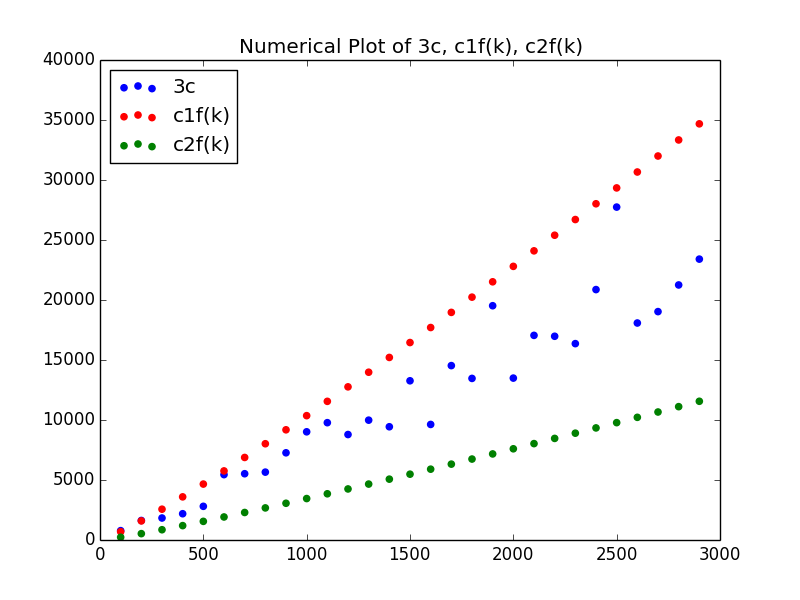
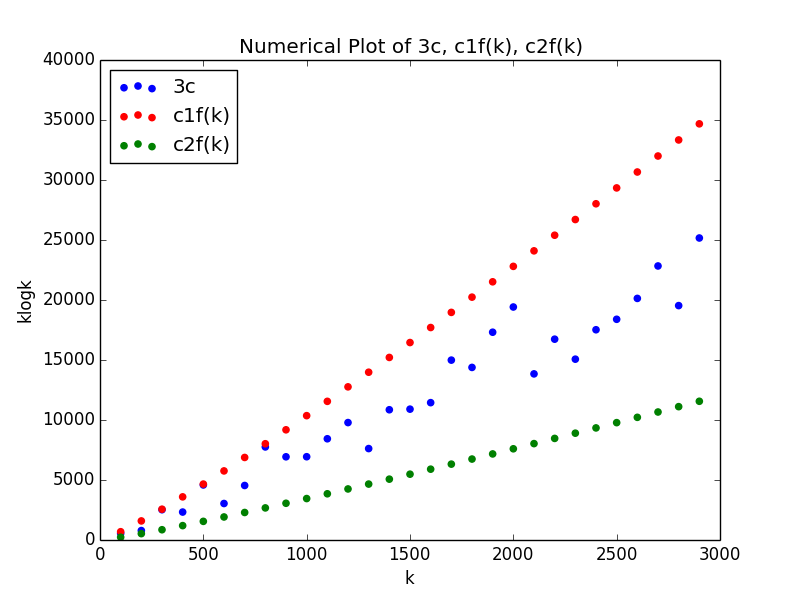
almost done with 5a

diff --git a/ps3/ps3_q5.py b/ps3/ps3_q5.py
@@ -1,8 +1,28 @@
+'''
+Robert Werthman
+csci 5454, problem set 3, question 5(a)
+
+Create a plot of running Karger's algorithm on
+different size random graphs.
+'''
+
 import networkx as nx 
 import matplotlib.pyplot as plt # Draw a graph from networkx
 import random
+import csv
 
 def CreateGraph(n):
+  '''
+  Description:
+    Creates a random networkx graph and then
+    converts it a multigraph
+
+  Args:
+    n number of nodes to be in graph
+
+  Returns:
+    a graph with n nodes and random edges
+  '''
   p = 1.0/n # Probability of creating an edge between two vertices
   G = nx.gnp_random_graph(n, p)
 
@@ -15,6 +35,16 @@ def CreateGraph(n):
   return G
 
 def ChooseRandomEdge(G):
+  '''
+  Description:
+    Chooses a random edge from a newtorkx graph
+
+  Args:
+    G a networkx graph
+
+  Returns:
+    a tuple of endpoints for a randomly selected edge in a graph
+  '''
   # Get the list of edges in the graph
   edges = nx.edges(G)
   
@@ -30,6 +60,21 @@ def RunKarger(G):
   return G
 
 def ContractEdge(G,e):
+  '''
+  Description:
+    Contracts an edge in a graph by removing it
+    and creating a new vertex from one of the 
+    endpoints of the edge.  Takes all edges from
+    both endpoints and connects them to new vertex.
+
+
+  Args:
+    G graph with edge to contract
+    e tuple of endpoints in edge to contract
+
+  Returns:
+    G a new graph with an edge contracted
+  '''
   # Get the endpoints of the contracted edge
   u = e[0]
   v = e[1]
@@ -52,33 +97,132 @@ def ContractEdge(G,e):
     
   return G
   
-  
-
 def DrawGraph(G, filename):
+  '''
+  Description:
+    Used to create a picture of a networkx graph
+    for testing
+
+  Args:
+    G a networkx graph
+    filename file to save picture of graph to
+
+  Returns:
+    Creates a picture of a newtorkx graph as output
+
+  '''
   pos = nx.shell_layout(G)
   nx.draw_networkx_nodes(G,pos)
   nx.draw_networkx_edges(G,pos)
   nx.draw_networkx_labels(G,pos)
   plt.savefig(filename)
   
+def Write(filename, n, prob):
+  '''
+  Description:
+    Writes output to a file
+  
+  Args:
+    n number of nodes in a graph
+    prob probability of find min cut with n-node graph
+
+  Returns:
+    Outputs n and prob to a file
+  '''
+  f = open(filename, 'a')
+  f.write('{0},{1}\n'.format(n,prob))
+  f.close()
+
+def ReadCSV(filename):
+  '''
+  Description:
+    Reads in csv file row by row and
+    calls ProducePlot to create a plot
+    of the first column vs second column
+
+  Args:
+    filename path to file to read in
+    
+  Returns:
+    Calls ProducePlot 
+
+  '''
+  graph_size = []
+  probs = []
+  with open(filename, 'rb') as csvfile:
+    reader = csv.reader(csvfile)
+    for row in reader:
+      graph_size.append(int(row[0]))
+      probs.append(float(row[1]))
+
+  ProducePlot(graph_size, probs)
+        
+def ProducePlot(graph_size, probs):
+  '''
+  Description:
+    Creates a graph with matplotlib of the
+    number of nodes in a graph vs. the 
+    probability of finding a min cut.
+
+  Args:
+    graph_size list of the number of nodes in a graph
+    probs list of the probabilities of finding min cut 
+          with number of nodes in graph
+
+  Returns:
+    creates a file with a plot of graph_size vs probs lists
+  '''
+  plt.figure(1)
+  plt.scatter(graph_size, probs)
+  plt.title('Number of nodes in graph vs probability of finding min cut')
+  plt.xlabel('Number of nodes in the graph')
+  plt.ylabel('Probability of finding min cut with 10*n^2 runs')
+  plt.savefig('q3_5a.png')
+  
+  
 
 def main():
+  '''
+  Description:
+    Runs Karger's algorithm on random graphs.
+    Creates the plot of the number of nodes in a
+    graph vs. the probability of finding a min cut.
+  '''
+  
+  prob_min_cut = {}
 
-  n = 20 # Number of nodes in the graph
-  G = CreateGraph(n)
-  plt.figure(1)
-  DrawGraph(G, 'ps3_q5.png')
+  # Create random graphs of 5,...,20 nodes
+  for n in range(5, 21):
+  
+    min_cuts_found = 0.0
 
-  print 'Number of nodes in graph', G.number_of_nodes()
-  print 'Number of edges in graph', G.size()
+    for i in range(1, (10*(n**2))+1):
+  
+      G = CreateGraph(n)
+      #plt.figure(1)
+      #DrawGraph(G, 'ps3_q5.png')
 
-  print 'Canonical min cut of graph', len(nx.minimum_edge_cut(G))
+      # Get the min cut using a built in method from networkx
+      min_edge_cut = len(nx.minimum_edge_cut(G))
 
-  G = RunKarger(G)
-  plt.figure(2)
-  DrawGraph(G, 'ps3_q5_test.png')
+      G = RunKarger(G)
 
-  print 'Min cut found by Karger', G.size()
+      # See if karger's returns the correct min cut
+      if G.number_of_edges() == min_edge_cut:
+        min_cuts_found += 1
+
+    # For every n node sized graph find the probability 
+    # of getting the min cut each time karger's is run
+    # for a total of 10*n**2 runs
+    prob_min_cut[n] = float('{0:.3f}'.format(min_cuts_found/i))
+    
+    # Output results to a csv file
+    Write('ps3_q5_output.txt', n, prob_min_cut[n])
+    
+
+  # Read in results file and create a plot of results
+  ReadCSV('ps3_q5_output.txt')  
 
 if __name__ == '__main__':
-  main()
+  #main()
+  ReadCSV('ps3_q5_output.txt')

diff --git a/ps3/ps3_q3d.py b/ps3/ps3_q3d.py
@@ -81,6 +81,8 @@ def GraphOutput(pods_with_num_minions):
 	plt.xlim(0, 3000)
 	plt.title("Numerical Plot of 3c, c1f(k), c2f(k)")
 	plt.legend((a,b,c),('3c', 'c1f(k)', 'c2f(k)'), loc=2)
+	plt.xlabel('k')
+	plt.ylabel('klogk')
 	plt.savefig('q3_3d.png')
 
 def main():
